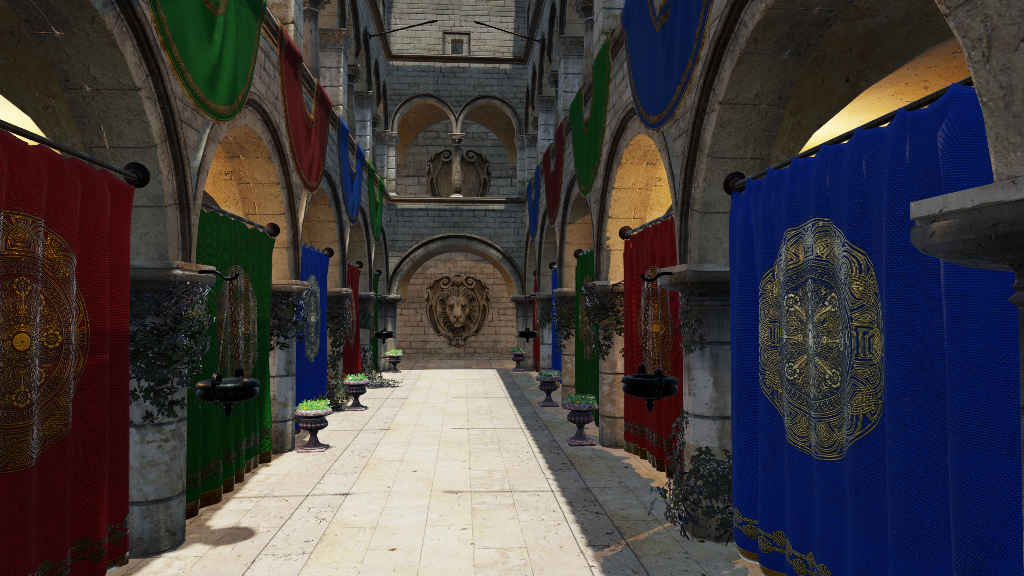
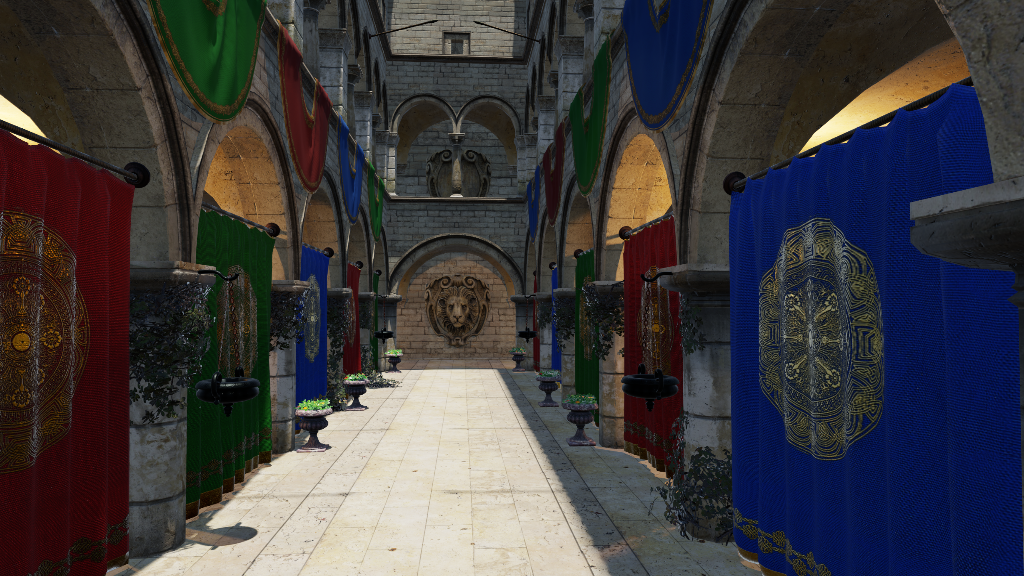
Cetiri slike sada trasiraju senke, i rasterski limit od dve tacke svetla je zapisan
Rasterska putanja alocira najvise dve omni mape senki (MAX_SHADOW_POINTS), a scena ima cetiri
ukljucena tackasta svetla, pa dva rendeuju potpuno bez senke. Engine to javlja kao upozorenje pri
pokretanju; teza to nigde nije pominjala.

Slike refl_off/refl_rt i gi_off/gi_on izoluju po jedan efekat, pa im je sve ostalo trebalo da bude
konfiguracija koju rad preporucuje, a ne ono sto podrazumevane vrednosti daju. Presnimljene sa
trasiranim senkama: sve cetiri potamne za 2-3 nivoa sive, sto je ocekivan smer kada dve baklje
pocnu da bacaju senku. Namerne upotrebe mape senki ostaju: ss_all (mapa je pandan screen-space
familiji) i shadow_map/shadow_rt (slika ciji je predmet ta razlika).

Ogranicenje je zapisano u metodologiji zajedno sa merom koliko nosi. Izolovana promena tehnike senki
pomera PSNR za 0.65 dB od 15.68 dB izmedju rastera i svih efekata, i FLIP za 0.024 od 0.349, dakle
oko 4%: rasterska osnova jeste slabija nego sto bi bila bez tog limita, ali rezultat nosi GI.
Brojevi su iz committovanih quality baseline-a (tehnika rtshadow), bez novog merenja.

diff --git a/master-rad/teza/tools/thesis_shots.py b/master-rad/teza/tools/thesis_shots.py
@@ -85,11 +85,18 @@ SHOTS = [
     ("cone_glossy", GRAZING, {**BASE_ENV, "SS_RENDER_REFLECTIONS_MODE": "2", "SS_RENDER_DEBUGVIEW": "3",
                               "SS_RENDER_REFLECTIONS_MAX_ROUGHNESS": "1.0",
                               "SS_RENDER_REFLECTIONS_CONE_SCALE": "3"}, False),
-    ("refl_off", GRAZING, {**BASE_ENV}, False),
-    ("refl_rt", GRAZING, {**BASE_ENV, "SS_RENDER_REFLECTIONS_MODE": "2",
+    # These four isolate ONE effect, so everything else should be the configuration the thesis
+    # recommends rather than whatever the defaults happen to be. Shadows are traced here: the raster
+    # path caps at MAX_SHADOW_POINTS = 2 while Sponza has four enabled shadow-casting point lights, so
+    # leaving it at the default renders two torches with no shadow at all and puts an artifact in a
+    # figure whose subject is something else entirely.
+    ("refl_off", GRAZING, {**BASE_ENV, "SS_RENDER_SHADOWS_MODE": "2"}, False),
+    ("refl_rt", GRAZING, {**BASE_ENV, "SS_RENDER_SHADOWS_MODE": "2",
+                          "SS_RENDER_REFLECTIONS_MODE": "2",
                           "SS_RENDER_REFLECTIONS_MAX_ROUGHNESS": "1.0"}, False),
-    ("gi_off", ATRIUM, {**BASE_ENV}, False),
-    ("gi_on", ATRIUM, {**BASE_ENV, "SS_RENDER_GI_MODE": "2"}, False),
+    ("gi_off", ATRIUM, {**BASE_ENV, "SS_RENDER_SHADOWS_MODE": "2"}, False),
+    ("gi_on", ATRIUM, {**BASE_ENV, "SS_RENDER_SHADOWS_MODE": "2",
+                       "SS_RENDER_GI_MODE": "2"}, False),
     ("pt_ref", ATRIUM, {"SS_RENDER_PATHTRACE": "1", "SS_RENDER_PATHTRACE_CLAMP": "0",
                         "SS_RENDER_PATHTRACE_WEIGHTCLAMP": "0"}, True),
 

diff --git a/master-rad/teza/latex/chapters/04-analiza.tex b/master-rad/teza/latex/chapters/04-analiza.tex
@@ -48,7 +48,18 @@ geometry, and this evaluation does not isolate it further.
 \paragraph{Scena i kontrole.} The test scene is Sponza, a standard interior with strong indirect
 bounce, lit by five enabled lights: four point torches and one directional sun. Three spot lights and
 two further point lights are authored but disabled, and the distinction matters because the default
-shadow path costs one ray per light per pixel. Every measurement in this chapter renders at
+shadow path costs one ray per light per pixel.
+
+One property of the raster path bounds every technique that uses it: the engine allocates at most two
+omni shadow maps (\texttt{MAX\_SHADOW\_POINTS}, six depth passes each), so two of the four enabled
+point lights render unshadowed. Ray-traced shadows have no such cap, tracing one ray per light, so
+every technique in Table~\ref{tab:quality} except \texttt{sve RT} sits on a weaker shadow baseline
+than a renderer without that limit, which flatters the ray-traced side. The effect is bounded and
+small: the shadow technique alone moves PSNR 0.65 dB of the 15.68 dB between raster and all effects,
+and FLIP 0.024 of 0.349, so the lift in Section~\ref{sec:poredjenje} is dominated by global
+illumination rather than by this cap.
+
+Every measurement in this chapter renders at
 $1915 \times 1064$, with the camera held static for every A/B comparison, since a moving camera
 desynchronizes the frame sequence between two runs and fabricates differences that are timing
 artifacts. The shader cache is cleared before any GPU metric is trusted, since a stale cache produces
